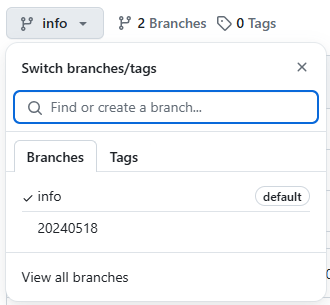
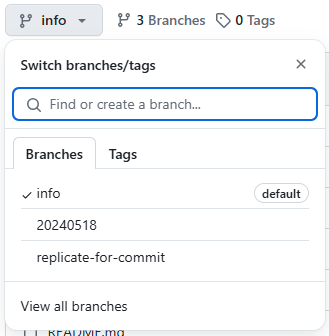
finally built da README🙌

diff --git a/README.md b/README.md
@@ -8,7 +8,7 @@ This repository contains all of the preview frameworks that might be implemented
 
 For more information about this change, check out this [Blog](https://mamanyosquad.github.io/blog/20240521).
 
-<img src="https://game.doaxvv.com/production/html/information/img/SDChara/nyotengu_win.png" alt="nyotengu_win.png" width="190px">
+<img src="https://game.doaxvv.com/production/html/information/img/SDChara/nyotengu_win.png" alt="Nyotengu, the symbol of #MamaNyoSquad" width="190px">
 
 ## Table of Contents
 
@@ -29,7 +29,15 @@ Note that some web features -- like #MamaNyoSquad Publishing -- are excluded fro
 
 # How This Works
 
-TBA
+This repository starts off with two main branches: `info` and `replicate-for-commit`. The first one contains all the necessary information to get started with the project, while the second contains first few files needed to start working on the project.
+
+![list of branches as of 24 May 2024 UTC](info_files/branch_info.png)
+
+Branches replicated from `replicate-for-commit` will have its pre-defined `.devcontainer` which can be spun up at any time with GitHub Codespaces (powered by VS Code).
+
+Powered by [nginx](https://nginx.org), necessary files are pre-outlined and can be customized to your own liking. Granted, they must follow the [GitHub Pages](https://github.io) framework on its file structure.
+
+Full info about how this works will be in the [documentation](CONTRIBUTING.md).
 
 # Contributing to the Project
 
